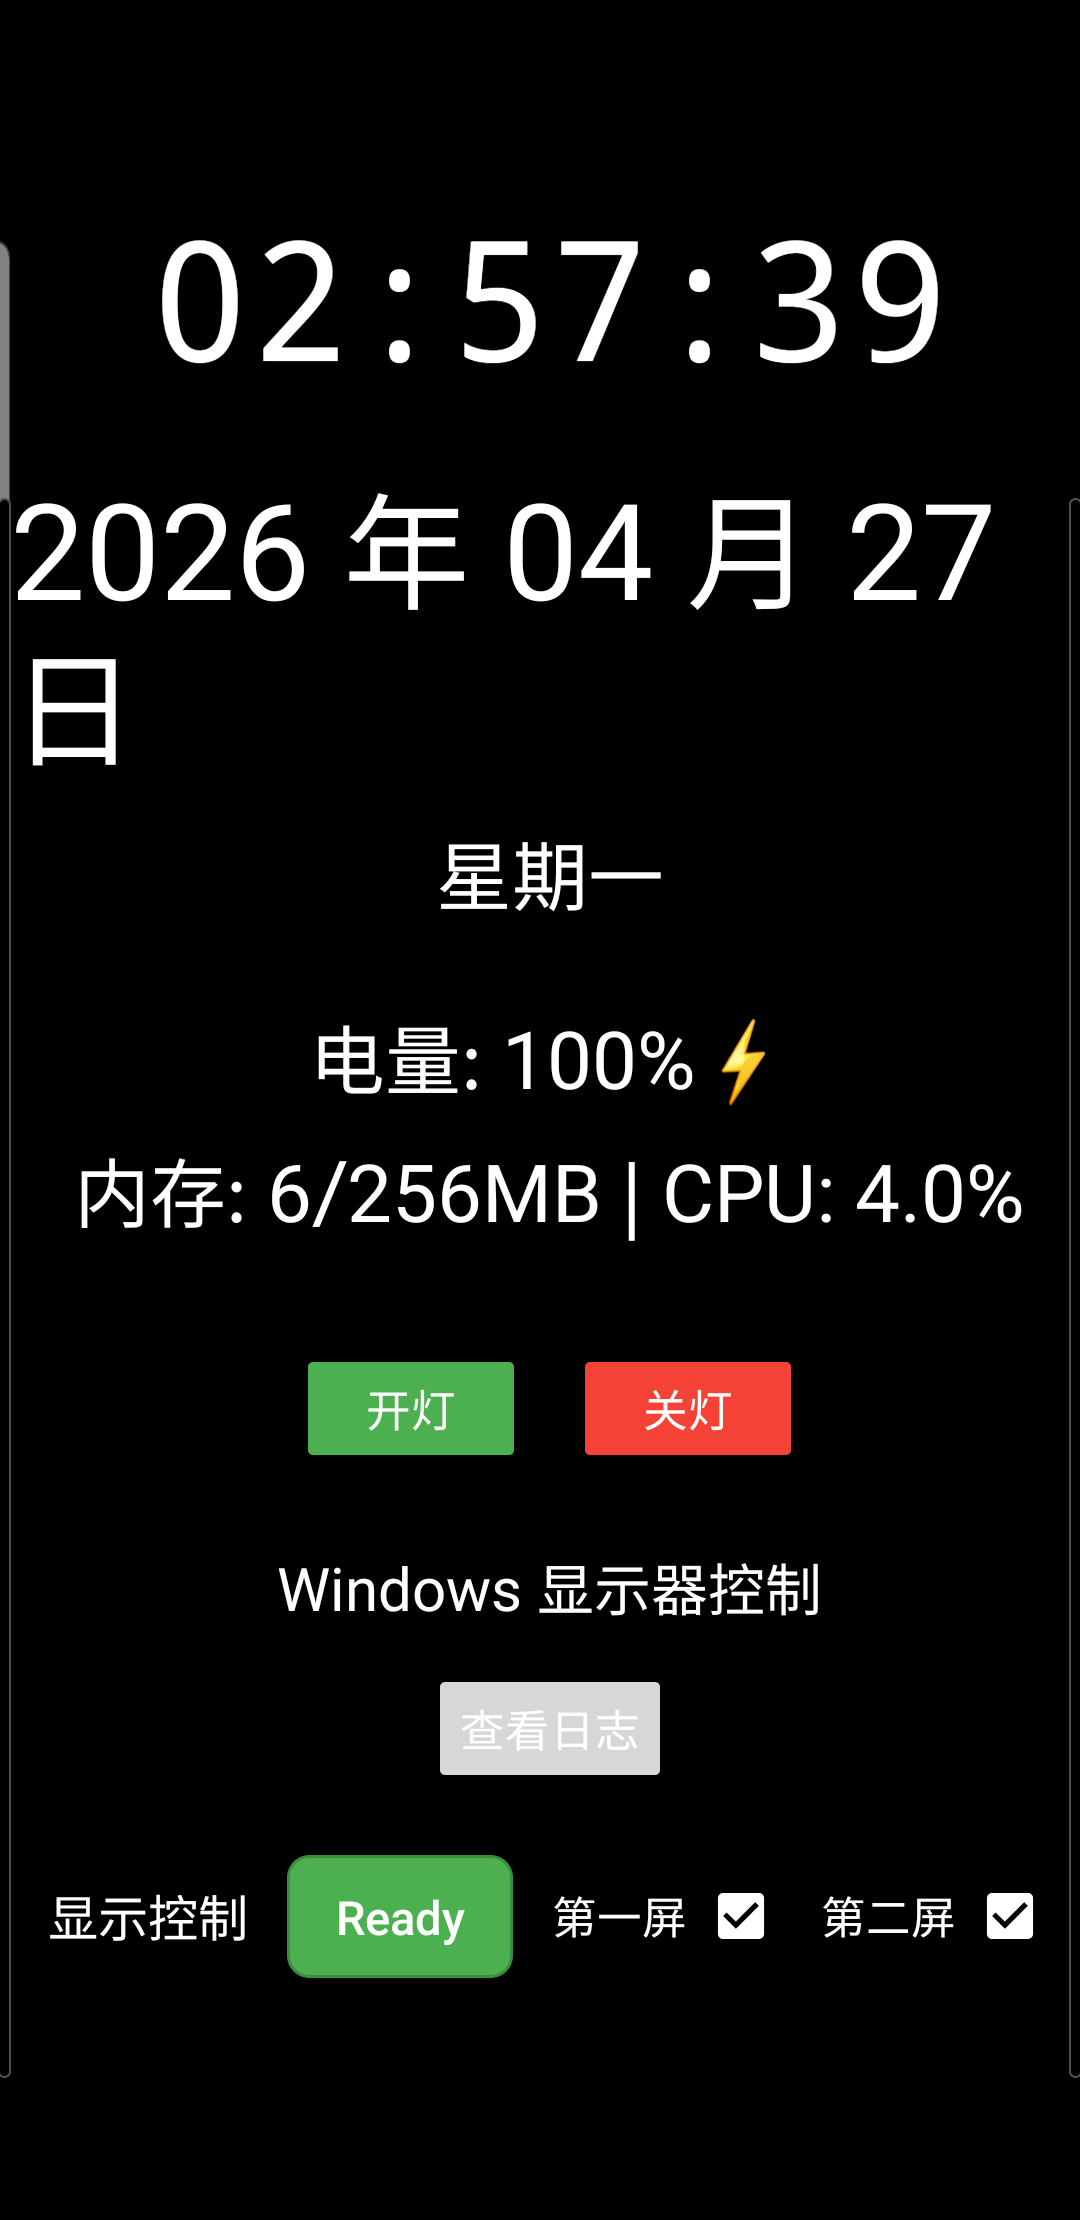
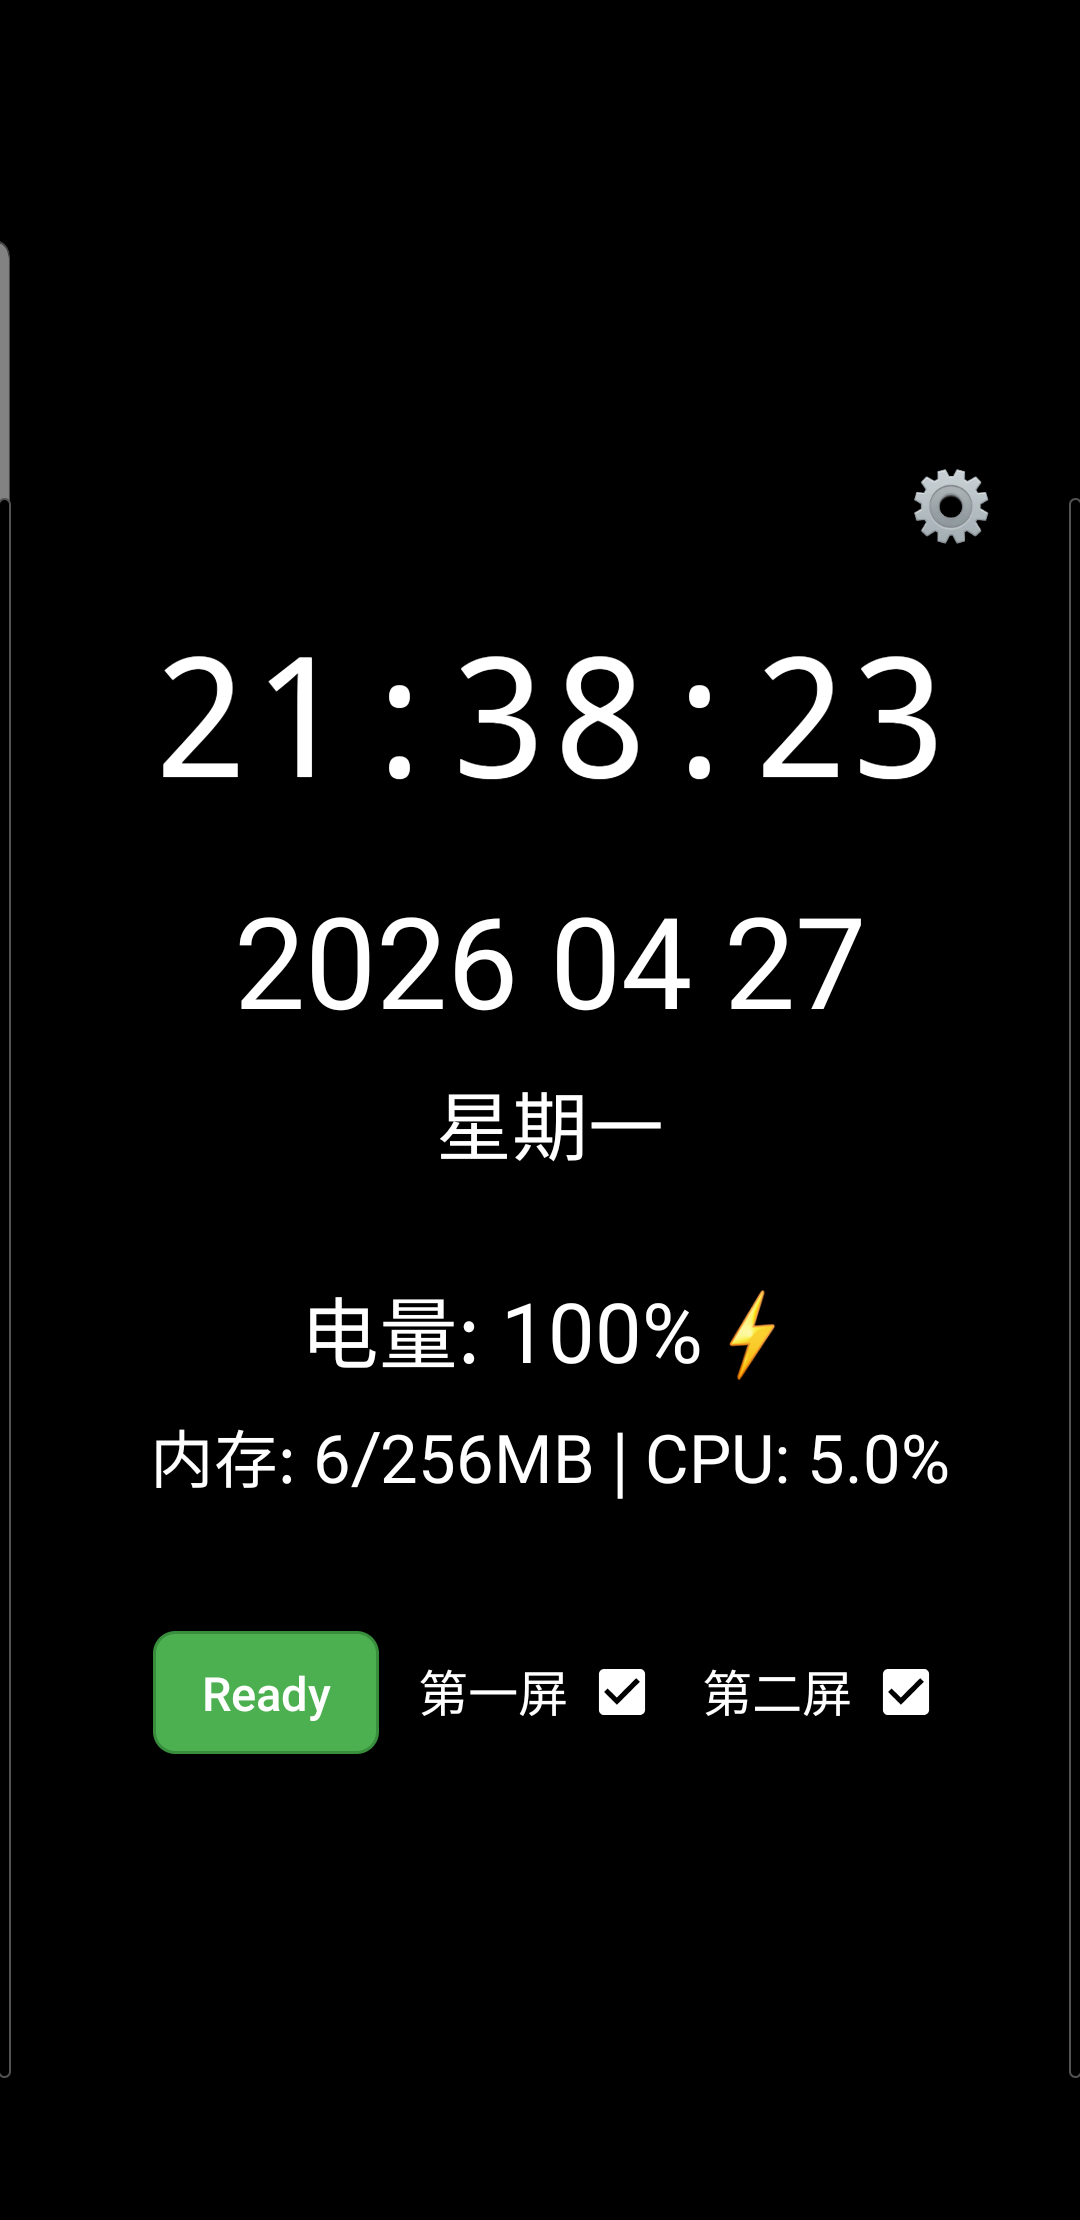
docs: Update README with new features and screenshots
Updates:
- Added app name: 控制屏
- Added settings page screenshot
- Added about page screenshot
- Updated feature list (settings, logs, about page)
- Added usage instructions for settings
- Updated version to v1.0.0
- Added developer info: Volcano Chen
- Added GitHub repository link
- Marked as AI development

Screenshots:
- app_screenshot.png (main interface)
- app_settings.png (settings interface)
- app_about.png (about page)

diff --git a/README.md b/README.md
@@ -1,4 +1,4 @@
-# USB Display Control
+# 控制屏 - USB Display Control
 
 通过 Android 手机远程控制 Windows 电脑显示器模式的工具。
 
@@ -9,6 +9,9 @@
 - ✅ **USB 连接** - 通过 ADB reverse 建立稳定通信
 - ✅ **紧凑界面** - 一行式控制布局，简洁直观
 - ✅ **黑色主题** - OLED 友好，省电防烧屏
+- ✅ **设置功能** - 可启用/禁用各项功能
+- ✅ **日志查看** - 实时查看系统日志
+- ✅ **关于页面** - 应用信息和使用说明
 
 ## 系统架构
 
@@ -26,10 +29,17 @@
 
 ## 界面预览
 
-![应用界面](app_screenshot.png)
+### 主界面
+![主界面](app_screenshot.png)
+
+### 设置界面
+![设置界面](app_settings.png)
+
+### 关于页面
+![关于页面](app_about.png)
 
 **界面说明**：
-- **显示控制** - 功能区域标题
+- **⚙️ 设置按钮** - 右上角配置入口
 - **Ready/Not Ready** - 服务器连接状态（可点击手动检查）
 - **第一屏 ☑** - 笔记本内置显示器开关
 - **第二屏 ☑** - 外接显示器开关
@@ -100,11 +110,12 @@ adb install app/build/outputs/apk/debug/app-debug.apk
 
 3. **启动 PC 服务器**
    ```bash
+   cd server
    python usb_display_control.py
    ```
 
 4. **打开 Android 应用**
-   - 启动 Clock 应用
+   - 启动 "控制屏" 应用
    - 查看状态按钮（应显示 "Ready"）
    - 勾选/取消显示器开关
 
@@ -119,7 +130,14 @@ adb install app/build/outputs/apk/debug/app-debug.apk
 **手动检查服务器**：
 - 点击 "Ready" / "Not Ready" 按钮
 - 查看详细连接日志
-- 自动同步显示器状态
+- 自动同步显示器状态（每 10 秒）
+
+**设置功能**：
+1. 点击右上角 ⚙️ 按钮进入设置
+2. 可启用/禁用台灯控制
+3. 可启用/禁用显示器控制
+4. 点击"查看日志"查看系统日志
+5. 点击"应用介绍"查看应用信息
 
 ## 技术细节
 
@@ -244,7 +262,7 @@ c:\VOLCANO\myws\andr\
 
 ## 版本历史
 
-### v1.0 (2026-04-27)
+### v1.0.0 (2026-04-27)
 - ✅ 实时显示器状态检测
 - ✅ 4 种显示模式切换
 - ✅ 紧凑一行式布局
@@ -253,6 +271,16 @@ c:\VOLCANO\myws\andr\
 - ✅ 自动状态轮询（10 秒间隔）
 - ✅ 手动刷新功能
 - ✅ 防止双屏全关保护
+- ✅ 设置页面（功能开关）
+- ✅ 日志查看功能
+- ✅ 关于页面（应用信息）
+- ✅ 黑色主题优化
+
+**应用信息**：
+- 应用名称：控制屏
+- 开发者：Volcano Chen
+- 开源地址：https://github.com/volcanochen/screen
+- 🤖 AI 开发
 
 ## 开发说明
 
@@ -288,13 +316,13 @@ python usb_display_control.py
 
 本项目仅供学习和个人使用。
 
-## 联系方式
+## 开发者
 
-如有问题，请通过以下方式联系：
-- 提交 Issue
-- 发送邮件至开发者
+- **开发者**: Volcano Chen
+- **GitHub**: https://github.com/volcanochen/screen
+- **🤖 AI 开发**: 本应用由 AI 助手辅助开发
 
 ---
 
 **最后更新**: 2026-04-27  
-**维护者**: Development Team
+**维护者**: Volcano Chen